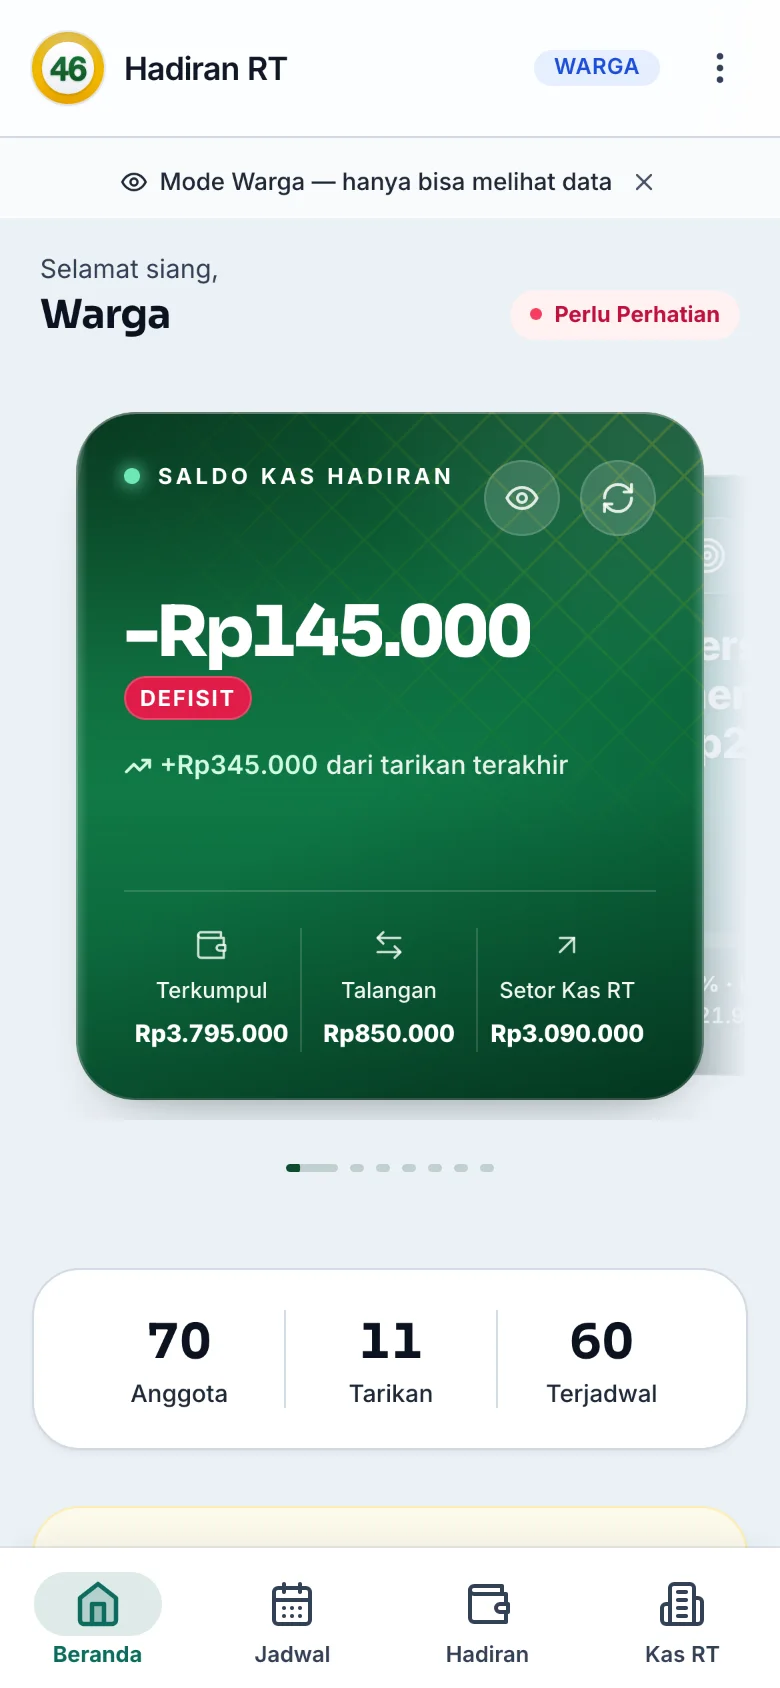
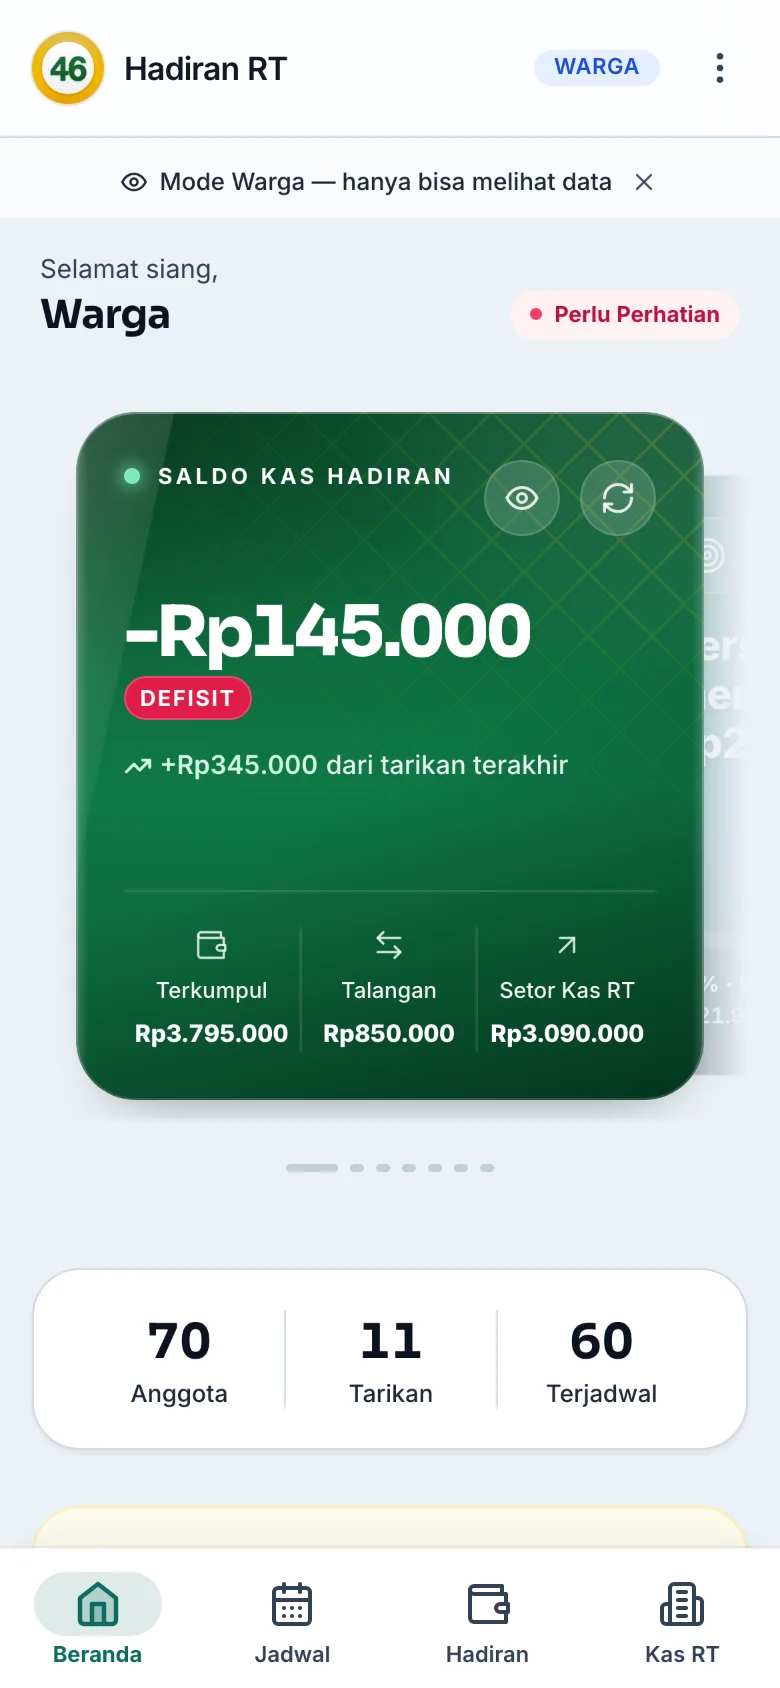
feat(warta): galeri foto tempel — tangkapan layar asli di landing /warta
Regen screenshot via capture-screenshots.mjs + gen-shots-webp.mjs
(hanya 1-beranda berubah; jadwal & kas identik). Galeri gaya Warta
Warga: bingkai mat kertas bertepi tinta, miring selang-seling,
caption editorial + kredit foto; file webp sama dgn showcase /info.

Changed region(s): [[0.0923, 0.2464, 0.2154, 0.3697]]

diff --git a/public/warta.html b/public/warta.html
@@ -221,6 +221,42 @@
   .isi h3 { font-family: 'Fraunces', serif; font-size: 19.5px; font-weight: 620; letter-spacing: -0.005em; }
   .isi p { grid-column: 2; font-size: 14.5px; color: var(--ink-soft); line-height: 1.55; }
 
+  /* ── Galeri foto: tangkapan layar asli, dipajang seperti foto tempel koran.
+     File sama dgn showcase /info (public/screenshots/*-sm.webp);
+     regen: scripts/capture-screenshots.mjs lalu scripts/gen-shots-webp.mjs ── */
+  .galeri {
+    display: flex; gap: 18px;
+    margin: 0 -22px;
+    overflow-x: auto; scroll-snap-type: x mandatory;
+    -webkit-overflow-scrolling: touch;
+    scroll-padding-inline: 22px;
+    padding: 30px 22px 12px;
+    scrollbar-width: none;
+    -webkit-mask-image: linear-gradient(to right, transparent 0, #000 30px, #000 calc(100% - 30px), transparent 100%);
+    mask-image: linear-gradient(to right, transparent 0, #000 30px, #000 calc(100% - 30px), transparent 100%);
+  }
+  .galeri::-webkit-scrollbar { display: none; }
+  .foto { scroll-snap-align: center; flex: 0 0 68%; max-width: 250px; }
+  .foto:nth-child(odd) .foto-bingkai { transform: rotate(-1.1deg); }
+  .foto:nth-child(even) .foto-bingkai { transform: rotate(1.1deg); }
+  .foto-bingkai {
+    background: #FBF7EA;
+    border: 1.5px solid var(--ink);
+    padding: 7px;
+    box-shadow: 0 16px 30px -20px rgba(23,36,27,.6);
+  }
+  .foto-bingkai img {
+    display: block; width: 100%; height: auto;
+    aspect-ratio: 1170 / 2532; background: #ECF1F7;
+  }
+  .foto figcaption { margin-top: 12px; font-size: 13.5px; color: var(--ink-soft); line-height: 1.5; }
+  .foto figcaption b { font-family: 'Fraunces', serif; font-weight: 640; font-size: 15px; color: var(--ink); }
+  .galeri-kredit {
+    font-family: 'Fraunces', serif; font-style: italic;
+    font-size: 13.5px; color: var(--gold-ink);
+    text-align: center; margin-top: 14px;
+  }
+
   /* ── Tata tertib: kartu berbingkai ganda seperti lembar peraturan ── */
   .tatib {
     position: relative; background: var(--paper);
@@ -417,6 +453,22 @@
         <li><span class="n" aria-hidden="true">06</span><h3>Kas RT</h3><p>Kas besar lingkungan, terpisah dari kas hadiran, dengan kategori pemasukan dan pengeluaran.</p></li>
         <li><span class="n" aria-hidden="true">07</span><h3>Laporan &amp; PDF</h3><p>Laporan siap unduh untuk arsip pengurus dan dibagikan di grup warga.</p></li>
       </ol>
+
+      <div class="galeri" role="region" aria-label="Tangkapan layar aplikasi, geser untuk melihat" tabindex="0">
+        <figure class="foto">
+          <div class="foto-bingkai"><img src="/screenshots/1-beranda-sm.webp" width="780" height="1688" loading="lazy" decoding="async" alt="Tangkapan layar Beranda: kartu saldo kas hadiran dan statistik anggota" /></div>
+          <figcaption><b>Beranda.</b> Saldo kas dan ringkasan terkini, terlihat begitu dibuka.</figcaption>
+        </figure>
+        <figure class="foto">
+          <div class="foto-bingkai"><img src="/screenshots/2-jadwal-sm.webp" width="780" height="1688" loading="lazy" decoding="async" alt="Tangkapan layar Jadwal: ringkasan tarikan terakhir dan daftar absensi warga" /></div>
+          <figcaption><b>Jadwal &amp; Absensi.</b> Kehadiran tiap tarikan tercatat rapi.</figcaption>
+        </figure>
+        <figure class="foto">
+          <div class="foto-bingkai"><img src="/screenshots/3-kas-sm.webp" width="780" height="1688" loading="lazy" decoding="async" alt="Tangkapan layar Kas RT: saldo bersih dan progres target akhir tahun" /></div>
+          <figcaption><b>Kas RT.</b> Progres menuju target bersama warga.</figcaption>
+        </figure>
+      </div>
+      <p class="galeri-kredit">Foto: tangkapan layar asli mode Warga, data tampil apa adanya.</p>
     </div>
   </section>
 